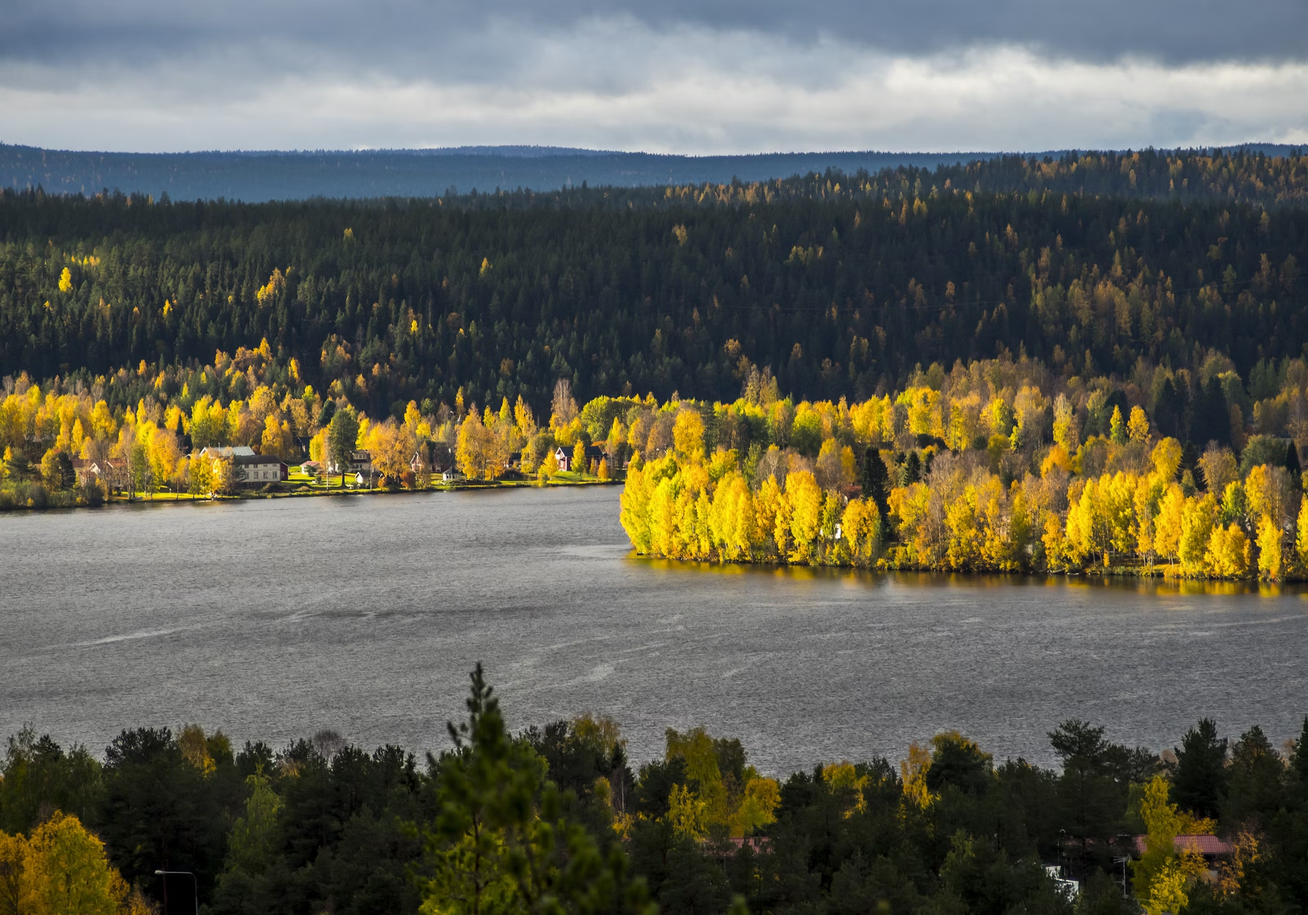
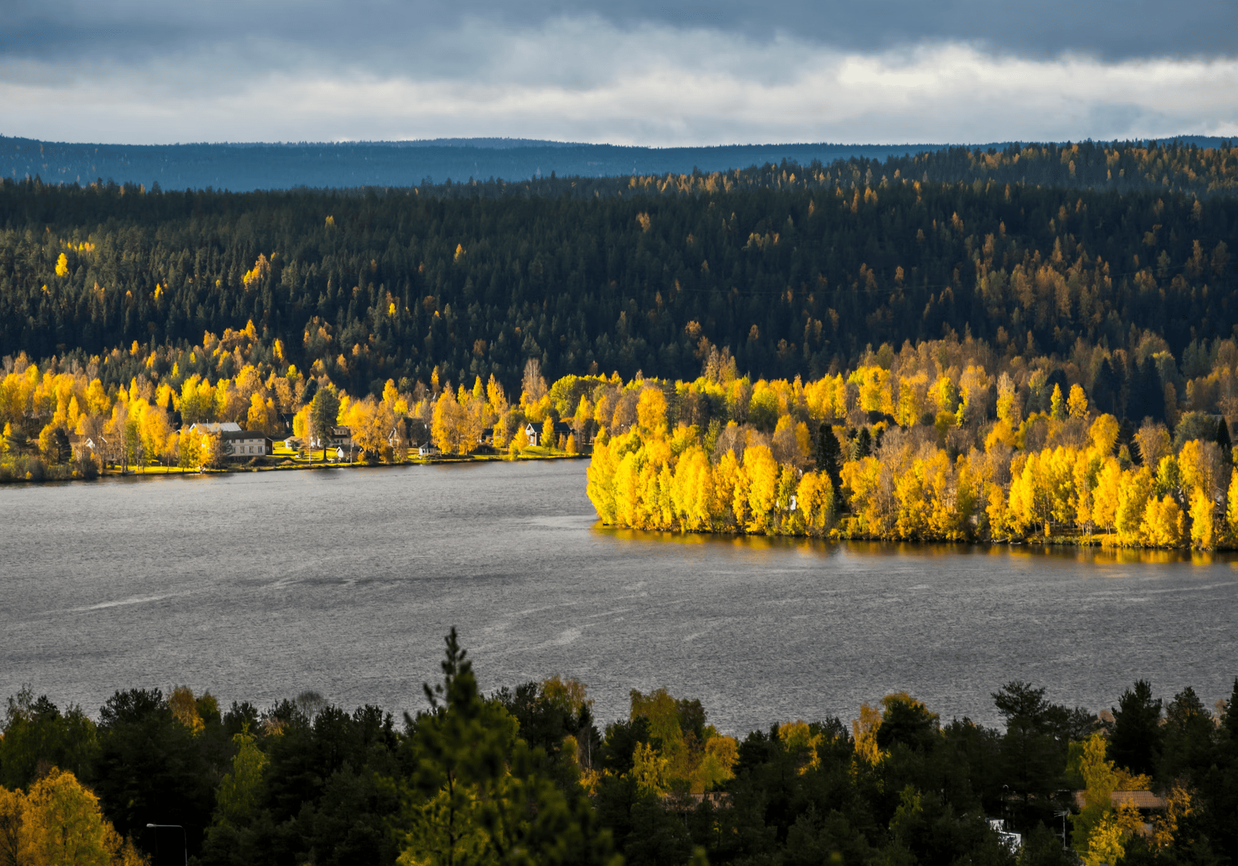
refactor: optimize images size and compression ratio

diff --git a/components/experiences.tsx b/components/experiences.tsx
@@ -8,14 +8,22 @@ import { MapPin } from "lucide-react";
 import Section from "./Section";
 import { useTranslation } from "react-i18next";
 import { Typography } from "./ui/typography";
-import Image from "next/image";
+import Image, { StaticImageData } from "next/image";
+
+import Aalborg from "../public/assets/experiences/aalborg.jpg";
+import Angers from "../public/assets/experiences/angers.jpg";
+import Collioure from "../public/assets/experiences/collioure.jpg";
+import Perpignan from "../public/assets/experiences/perpignan.jpg";
+import Tours from "../public/assets/experiences/tours.jpg";
+
+
 
 // Types
 interface Experience {
     id: string;
     yearRange: string;
     title: string;
-    imageUrl: string;
+    imageUrl: StaticImageData;
     type: string;
     description: string;
     btnName?: string;
@@ -25,21 +33,20 @@ interface Experience {
 }
 
 // Sous-composants
-const ExperienceTitle = ({ 
-    yearRange, 
-    title, 
-    isVisible, 
-    onClick 
-}: { 
-    yearRange: string; 
-    title: string; 
-    isVisible: boolean; 
-    onClick: () => void; 
+const ExperienceTitle = ({
+    yearRange,
+    title,
+    isVisible,
+    onClick
+}: {
+    yearRange: string;
+    title: string;
+    isVisible: boolean;
+    onClick: () => void;
 }) => (
     <div
-        className={`my-2 md:my-5 ps-2 cursor-pointer ${
-            isVisible ? "active text-blue-500 border-s-2 border-s-blue-500" : ""
-        }`}
+        className={`my-2 md:my-5 ps-2 cursor-pointer ${isVisible ? "active text-blue-500 border-s-2 border-s-blue-500" : ""
+            }`}
         onClick={onClick}
     >
         <Typography variant="small">{yearRange}</Typography>
@@ -49,17 +56,16 @@ const ExperienceTitle = ({
     </div>
 );
 
-// Mise à jour du composant ExperienceImage pour utiliser le statut de chargement
-const ExperienceImage = ({ imageUrl, isVisible }: { imageUrl: string; isVisible: boolean }) => (
+const ExperienceImage = ({ imageUrl, isVisible }: { imageUrl: StaticImageData; isVisible: boolean }) => (
     <div className="flex justify-center items-center">
         {isVisible ? (
             <div className="relative w-full h-[300px] md:h-screen md:absolute md:top-0 md:w-[220px] xl:w-[400px]">
-                <Image 
-                    src={imageUrl} 
+                <Image
+                    src={imageUrl}
                     alt="Experience illustration"
                     fill
                     priority
-                    loading="eager" // Force le chargement immédiat
+                    loading="eager"
                     sizes="(max-width: 768px) 100vw, (max-width: 1200px) 220px, 400px"
                     className="object-cover"
                     quality={85}
@@ -101,7 +107,7 @@ const ExperienceDetails = ({
 );
 
 // Composant de préchargement modifié
-const ImagePreloader = ({ images }: { images: string[] }) => (
+const ImagePreloader = ({ images }: { images: StaticImageData[] }) => (
     <div aria-hidden="true" className="hidden">
         {images.map((src, index) => (
             <div key={index} className="relative w-0 h-0">
@@ -127,7 +133,7 @@ export default function Experiences() {
             id: "image1",
             yearRange: "2024 - 2025",
             title: t("experiences.items.radioAnalyzer.title"),
-            imageUrl: "https://img.static-kl.com/images/media/14503BF4-AEAD-481C-8987FC06F3D8C704?w=1280",
+            imageUrl: Aalborg,
             type: "Developer",
             description: t("experiences.items.radioAnalyzer.description"),
             btnName: t("experiences.items.radioAnalyzer.btnText"),
@@ -140,7 +146,7 @@ export default function Experiences() {
             yearRange: "2023 - 2025",
             title: t("experiences.items.freelance.title"),
             imageUrl:
-                "https://images.unsplash.com/photo-1609185271997-ec976c17a0bc?q=80&w=1964&auto=format&fit=crop&ixlib=rb-4.0.3&ixid=M3wxMjA3fDB8MHxwaG90by1wYWdlfHx8fGVufDB8fHx8fA%3D%3D",
+                Collioure,
             type: "Developer",
             description: t("experiences.items.freelance.description"),
             btnName: t("experiences.items.freelance.btnText"),
@@ -153,7 +159,7 @@ export default function Experiences() {
             yearRange: "2022 - 2023",
             title: t("experiences.items.kori.title"),
             imageUrl:
-                "https://images.unsplash.com/photo-1722605267048-a5389a97b20c?q=80&w=1935&auto=format&fit=crop&ixlib=rb-4.0.3&ixid=M3wxMjA3fDB8MHxwaG90by1wYWdlfHx8fGVufDB8fHx8fA%3D%3D",
+                Perpignan,
             type: "Developer",
             description: t("experiences.items.kori.description"),
             btnName: t("experiences.items.kori.btnText"),
@@ -166,7 +172,7 @@ export default function Experiences() {
             yearRange: "2021 - 2022",
             title: t("experiences.items.vendeurPolyvalent.title"),
             imageUrl:
-                "https://images.unsplash.com/photo-1724599685287-299a6412b92a?q=80&w=1820&auto=format&fit=crop&ixlib=rb-4.0.3&ixid=M3wxMjA3fDB8MHxwaG90by1wYWdlfHx8fGVufDB8fHx8fA%3D%3D",
+                Tours,
             type: "Other",
             description: t("experiences.items.vendeurPolyvalent.description"),
             localisation: "Tours, France",
@@ -177,7 +183,7 @@ export default function Experiences() {
             yearRange: "2018 - 2022",
             title: t("experiences.items.uberEats.title"),
             imageUrl:
-                "https://images.unsplash.com/photo-1643549811064-adf938a5ca40?q=80&w=1935&auto=format&fit=crop&ixlib=rb-4.0.3&ixid=M3wxMjA3fDB8MHxwaG90by1wYWdlfHx8fGVufDB8fHx8fA%3D%3D",
+                Angers,
             type: "Other",
             description: t("experiences.items.uberEats.description"),
             localisation: "Angers, France",

diff --git a/components/slider.tsx b/components/slider.tsx
@@ -10,6 +10,13 @@ import Image from "next/image";
 import gsap from "gsap";
 import { ScrollTrigger } from "gsap/ScrollTrigger";
 
+import Hobbies from "../public/assets/slider/hobbies.png";
+import Projects from "../public/assets/slider/projects.png";
+import AboutMe from "../public/assets/slider/webdeveloper.png";
+import Experiences from "../public/assets/slider/experiences.png";
+import Contact from "../public/assets/slider/contact.png";
+
+
 type MouseZone = "none" | "header" | "buttons";
 
 export default function Slider() {
@@ -24,31 +31,31 @@ export default function Slider() {
 
     const slides = [
         {
-            url: "https://images.unsplash.com/photo-1516483638261-f4dbaf036963?q=80&w=1972&auto=format&fit=crop&ixlib=rb-4.0.3&ixid=M3wxMjA3fDB8MHxwaG90by1wYWdlfHx8fGVufDB8fHx8fA%3D%3D",
+            url: Hobbies,
             subTitle: "Travel",
             id: "hobbies",
             title: t("slides.hobbies"),
         },
         {
-            url: "https://images.unsplash.com/photo-1696761354458-c6c9727d2156?q=80&w=1954&auto=format&fit=crop&ixlib=rb-4.0.3&ixid=M3wxMjA3fDB8MHxwaG90by1wYWdlfHx8fGVufDB8fHx8fA%3D%3D",
+            url: Projects,
             subTitle: "Projects",
             title: t("slides.projects"),
             id: "projects",
         },
         {
-            url: "https://images.unsplash.com/photo-1513269762479-12fa9962d31b?q=80&w=1887&auto=format&fit=crop&ixlib=rb-4.0.3&ixid=M3wxMjA3fDB8MHxwaG90by1wYWdlfHx8fGVufDB8fHx8fA%3D%3D",
+            url: AboutMe,
             subTitle: "About Me",
             title: [t("hero.titlePart1"), <br key="break" />, t("hero.titlePart2")],
             id: "aboutme",
         },
         {
-            url: "https://images.unsplash.com/photo-1513622470522-26c3c8a854bc?q=80&w=2070&auto=format&fit=crop&ixlib=rb-4.0.3&ixid=M3wxMjA3fDB8MHxwaG90by1wYWdlfHx8fGVufDB8fHx8fA%3D%3D",
+            url: Experiences,
             subTitle: "Experiences",
             id: "experiences",
             title: t("slides.experiences"),
         },
         {
-            url: "https://images.unsplash.com/photo-1639153697189-04bc5d043f64?q=80&w=2070&auto=format&fit=crop&ixlib=rb-4.0.3&ixid=M3wxMjA3fDB8MHxwaG90by1wYWdlfHx8fGVufDB8fHx8fA%3D%3D",
+            url: Contact,
             title: t("slides.contact"),
             subTitle: "Contact",
             id: "contact",

diff --git a/components/aboutme.tsx b/components/aboutme.tsx
@@ -15,7 +15,7 @@ import Lenis from "@studio-freight/lenis";
 import gsap from "gsap";
 import { ScrollTrigger } from "gsap/ScrollTrigger";
 import TextReveal from "./animations/TextReveal";
-import ProfilPicture from "../public/assets/aboutme/mathiasBandW1.png";
+import ProfilPicture from "../public/assets/aboutme/mathias.jpg";
 import { useTranslation } from "react-i18next";
 import { Typography } from "./ui/typography";
 

diff --git a/components/hobbies.tsx b/components/hobbies.tsx
@@ -195,7 +195,7 @@ export default function Hobbies() {
                         </button>
                     </div>
 
-                    <div className="absolute inset-0">
+                    <div>
                         {locationData.map((location, index) => (
                             <div
                                 key={location.location}
